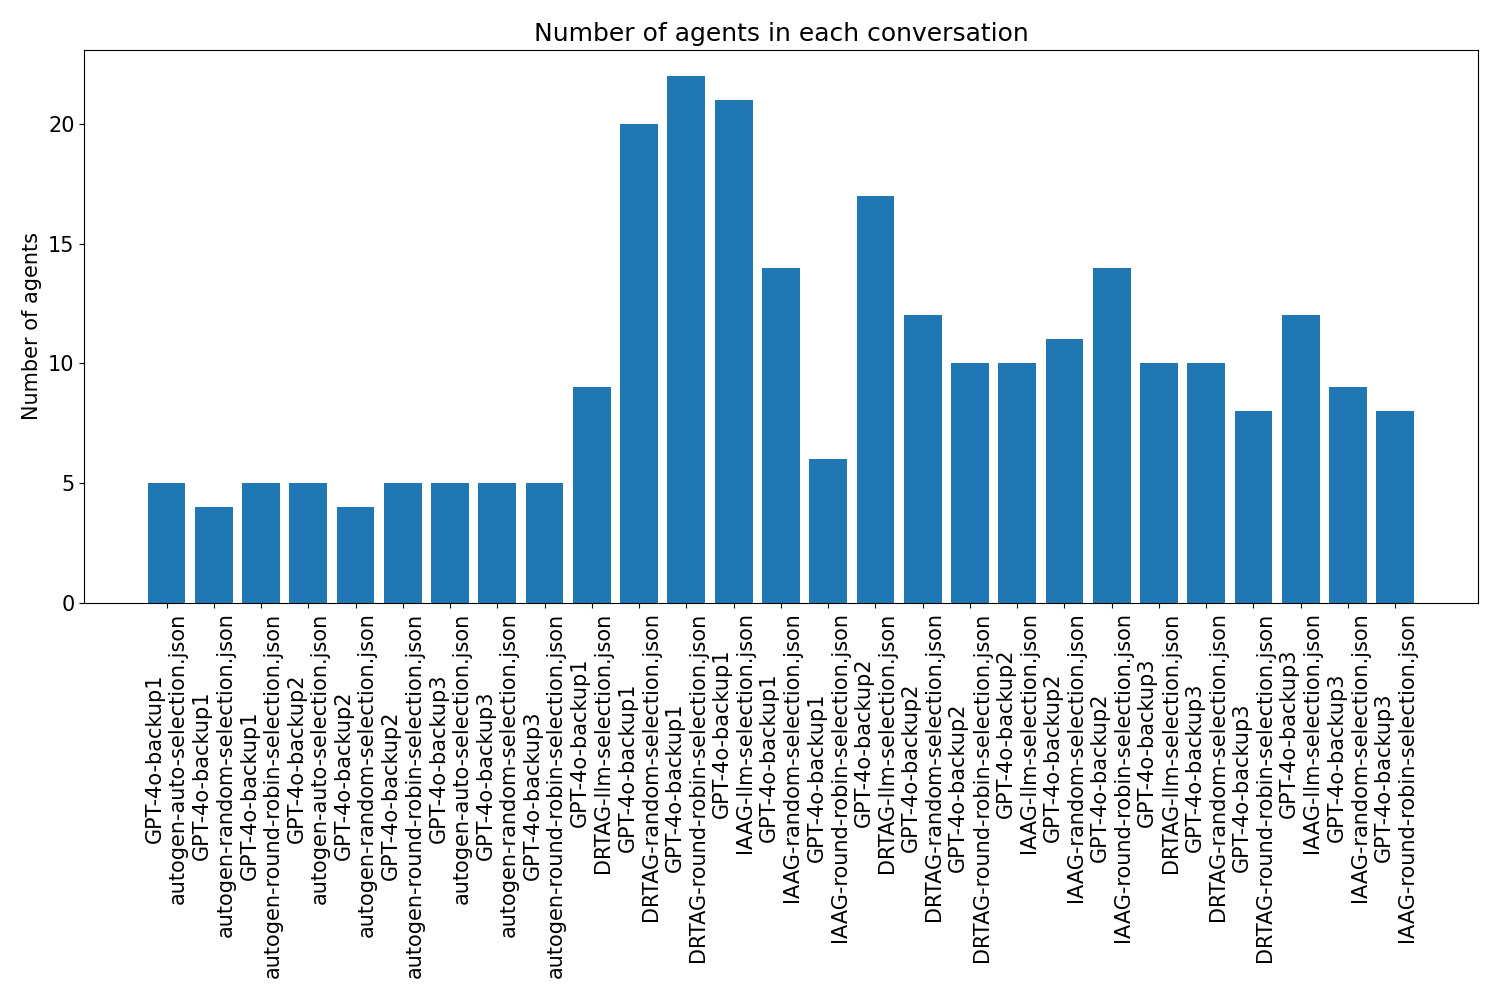
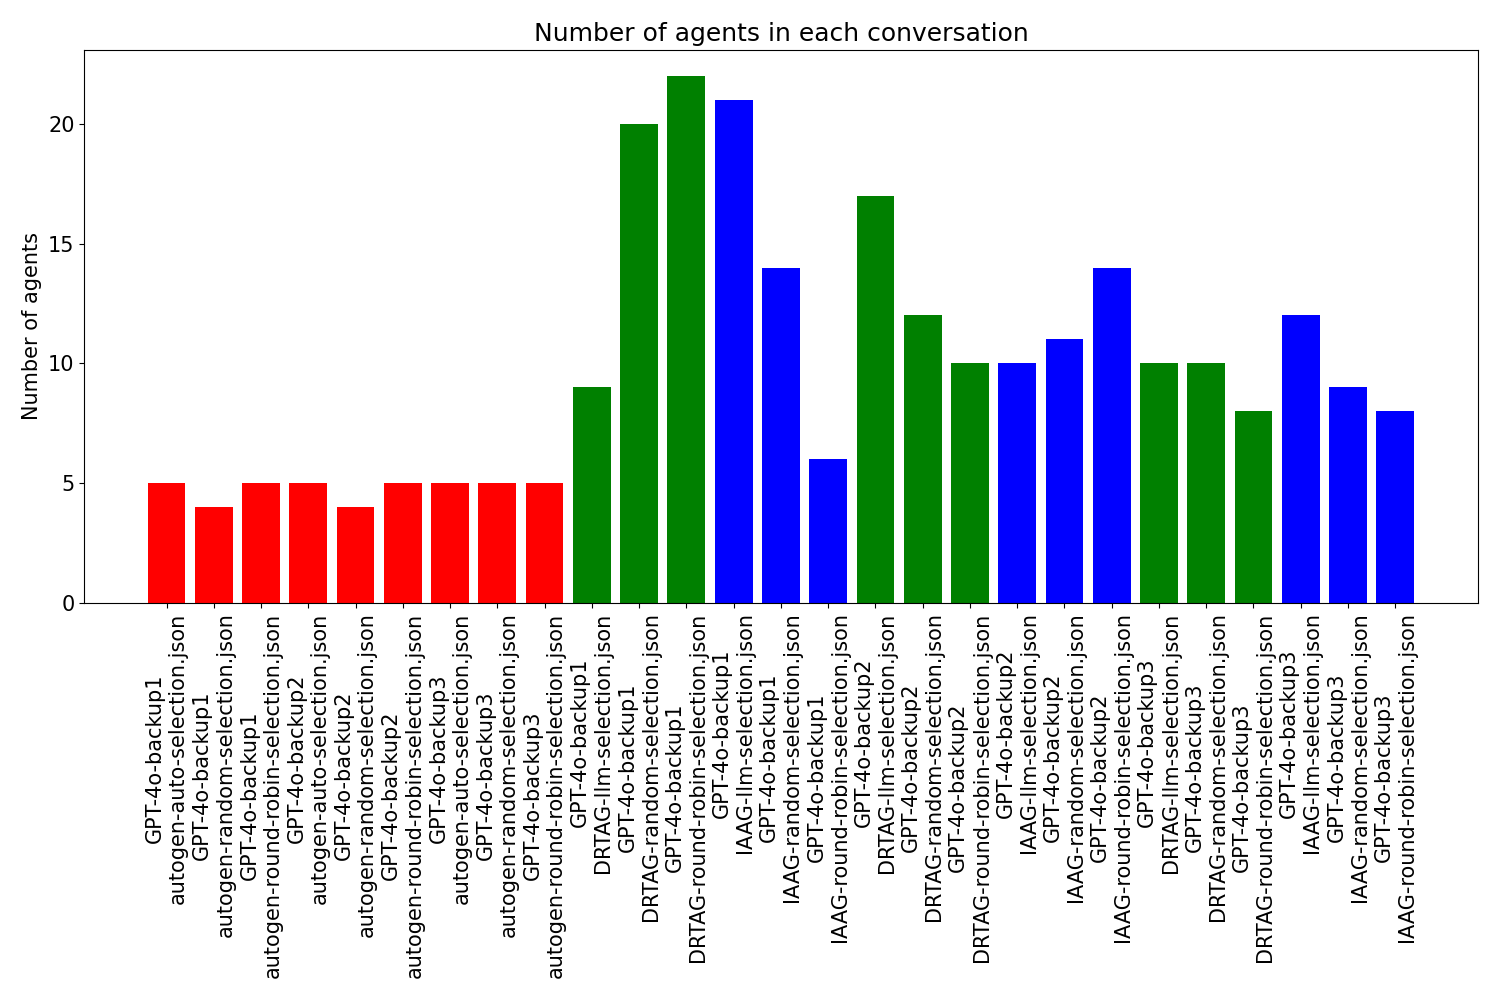
Add colors and change fornt size of graphs for better visualization.

Changed region(s): [[0.092, 0.062, 0.9507, 0.62]]

diff --git a/binary-weight-for-new-knowledge-evaluator.py b/binary-weight-for-new-knowledge-evaluator.py
@@ -91,14 +91,25 @@ for jsonFilePath in jsonFilePaths:
     filename = jsonFilePath.split("/")[-2] + '\n' + jsonFilePath.split("/")[-1]
     conversationScores[filename] = len(termsToScoreConversation)
 
+
 # Plot a graph of conversation scores calculated using binary weighting for new knowledge
 import matplotlib.pyplot as plt
 
-plt.figure(figsize=(10, 10))
-plt.bar(conversationScores.keys(), conversationScores.values())
+plt.figure(figsize=(15, 10))
+plt.rcParams.update({'font.size': 15})
+barColors = []
+for label in conversationScores.keys():
+    if label.split("\n")[1].startswith("autogen"):
+        barColors.append('red')
+    elif label.split("\n")[1].startswith("DRTAG"):
+        barColors.append('green')
+    else:
+        barColors.append('blue')
+
+plt.bar(conversationScores.keys(), conversationScores.values(), color=barColors)
 plt.xticks(rotation=90)
 plt.ylabel("Conversation Score")
 plt.title("Conversation score calculated using binary weighting for new knowledge")
 plt.tight_layout()
-plt.savefig("conversation-scores-binary-weighting2.png")
+plt.savefig("conversationScoresBinaryWeighting2.png")
 print("Graph is plotted successfully.")

diff --git a/tf-idf-evaluator.py b/tf-idf-evaluator.py
@@ -110,11 +110,23 @@ print("TF-IDF table is created and saved as tfidf-table.csv.")
 sums = tfidfTable.iloc[:, 1:].sum(axis=0)
 
 plt.figure(figsize=(15, 10))
-plt.bar(tfidfTable.columns[1:], sums)
+plt.rcParams.update({'font.size': 15})
+# convert '/' in column  in tfidfTable to '\n' for better readability
+tfidfTable.columns = [col.replace('/', '\n') for col in tfidfTable.columns]
+barColors = []
+for label in tfidfTable.columns:
+    if label.split("\n")[1].startswith("autogen"):
+        barColors.append('red')
+    elif label.split("\n")[1].startswith("DRTAG"):
+        barColors.append('green')
+    else:
+        barColors.append('blue')
+
+plt.bar(tfidfTable.columns[1:], sums, color=barColors)
 plt.xticks(rotation=90)
 plt.ylabel("TF-IDF Sum")
 plt.title("TF-IDF Sum for each conversation")
 plt.tight_layout()
-plt.savefig("tf-idf-sums.png")
+plt.savefig("tfidfSums.png")
 
 print("TF-IDF sums are saved as tf-idf-sums.png.")

diff --git a/count-agents-evaluator.py b/count-agents-evaluator.py
@@ -59,7 +59,16 @@ import matplotlib.pyplot as plt
 
 plt.figure(figsize=(15, 10))
 plt.rcParams.update({'font.size': 15})
-plt.bar(agentCounts.keys(), agentCounts.values())
+barColors = []
+for label in agentCounts.keys():
+    if label.split("\n")[1].startswith("autogen"):
+        barColors.append('red')
+    elif label.split("\n")[1].startswith("DRTAG"):
+        barColors.append('green')
+    else:
+        barColors.append('blue')
+
+plt.bar(agentCounts.keys(), agentCounts.values(), color=barColors)
 plt.xticks(rotation=90)
 plt.ylabel("Number of agents")
 plt.title("Number of agents in each conversation")
